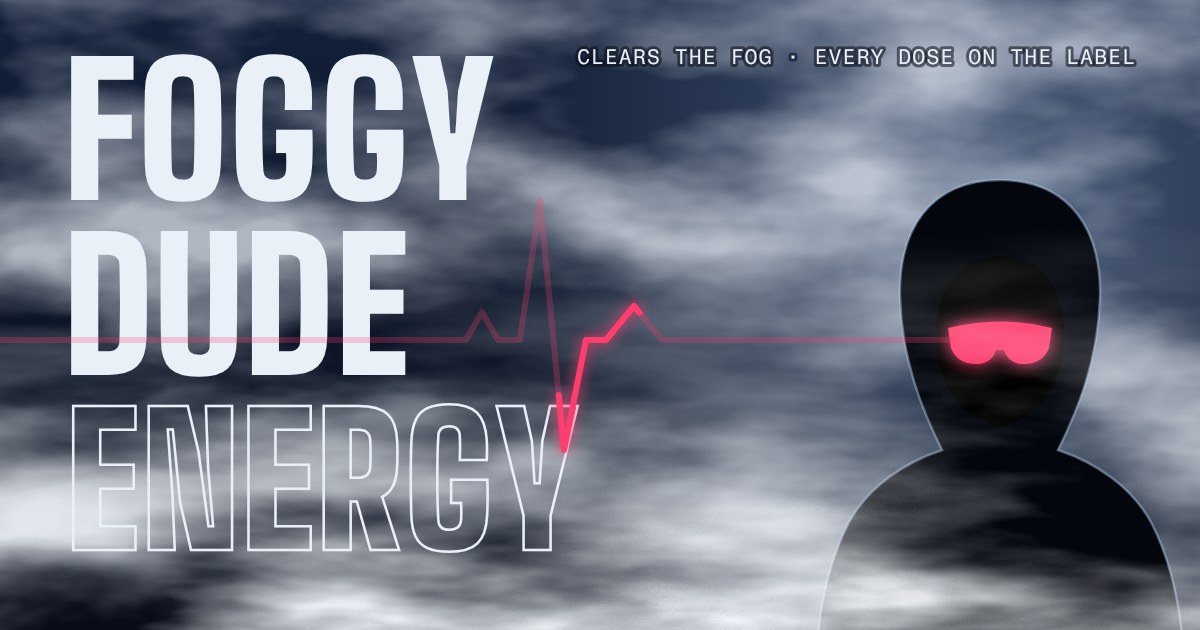
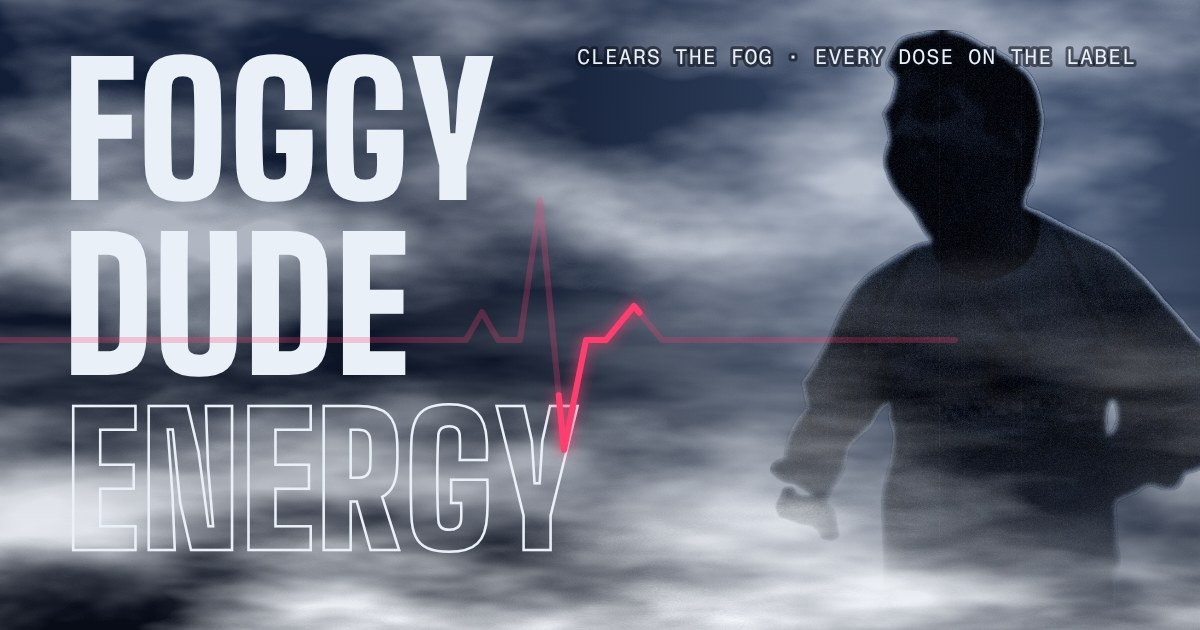
Use Samuel's photo as the Foggy Dude silhouette
Cut out from the photo and processed into a dark, grainy, backlit
silhouette that fades into the fog. Replaces the drawn hooded figure on
the page and in the link-preview image.

Claude-Session: https://claude.ai/code/session_01GXagZRprnt4TRqthb3bubq

Changed region(s): [[0.6167, 0.0302, 1.0, 1.0]]

diff --git a/index.html b/index.html
@@ -123,20 +123,12 @@ a { color: inherit; }
 /* The Foggy Dude */
 .dude {
   position: absolute; bottom: -2vh; right: max(-6vw, calc(50vw - 46rem));
-  height: min(96vh, 1000px); width: auto; aspect-ratio: 2 / 3;
+  height: min(96vh, 1000px); width: auto; aspect-ratio: 811 / 1100;
   opacity: calc(var(--dude-op) * (1 - var(--clear) * .75));
   will-change: transform;
 }
-.dude .body { fill: var(--shade); }
-.dude .rim { fill: none; stroke: var(--rim); stroke-width: 2.5; }
-.dude .face { fill: var(--void); }
-.dude .shades, .dude .shades-glow { fill: var(--pulse); transition: fill .4s; }
-.dude .shades-glow { filter: blur(9px); animation: glow var(--beat) ease-in-out infinite; }
-@keyframes glow { 0%, 100% { opacity: .55; } 12% { opacity: 1; } 30% { opacity: .7; } }
 @media (max-width: 760px) {
-  .dude { height: 64vh; right: -28vw; bottom: -10vh; }
-  .dude .shades-glow { display: none; }
-  .dude .shades { opacity: .55; }
+  .dude { height: 66vh; right: -30vw; bottom: -6vh; }
   :root { --dude-op: .22; }
 }
 @media (max-width: 760px) and (prefers-color-scheme: dark) {
@@ -215,7 +207,6 @@ footer p + p { margin-top: .6rem; }
 
 @media (prefers-reduced-motion: reduce) {
   .pulse .beat { animation: none; stroke-dasharray: none; }
-  .dude .shades-glow { animation: none; }
   .bar i, .bar .tick, body { transition: none; }
 }
 </style>
@@ -224,24 +215,7 @@ footer p + p { margin-top: .6rem; }
 <div class="scene" aria-hidden="true">
   <div class="sky"></div>
   <div class="fog f1" data-depth=".08" data-drift="7"><div></div></div>
-  <svg class="dude" viewBox="0 0 400 600">
-    <defs>
-      <linearGradient id="dudeFade" x1="0" y1="0" x2="0" y2="1">
-        <stop offset=".55" stop-color="#fff"/>
-        <stop offset="1" stop-color="#fff" stop-opacity="0"/>
-      </linearGradient>
-      <mask id="dudeMask" maskUnits="userSpaceOnUse" x="0" y="0" width="400" height="600">
-        <rect width="400" height="600" fill="url(#dudeFade)"/>
-      </mask>
-    </defs>
-    <g mask="url(#dudeMask)">
-      <path class="body" d="M200 120C130 120 98 170 100 238C102 300 122 350 142 390C106 402 68 426 48 464C26 508 18 560 16 600H384C382 560 374 508 352 464C332 426 294 402 258 390C278 350 298 300 300 238C302 170 270 120 200 120Z"/>
-      <path class="rim" d="M200 120C130 120 98 170 100 238C102 300 122 350 142 390C106 402 68 426 48 464C26 508 18 560 16 600M384 600C382 560 374 508 352 464C332 426 294 402 258 390C278 350 298 300 300 238C302 170 270 120 200 120"/>
-      <path class="face" d="M200 196C154 196 134 236 136 282C138 328 164 360 200 366C236 360 262 328 264 282C266 236 246 196 200 196Z"/>
-      <path class="shades-glow" d="M148 268Q200 255 252 268L249 288Q242 305 222 304Q208 303 204 290H196Q192 303 178 304Q158 305 151 288Z"/>
-      <path class="shades" d="M148 268Q200 255 252 268L249 288Q242 305 222 304Q208 303 204 290H196Q192 303 178 304Q158 305 151 288Z"/>
-    </g>
-  </svg>
+  <img class="dude" src="foggy-dude.webp" alt="" width="811" height="1100" decoding="async" fetchpriority="high">
   <div class="fog f2" data-depth=".22" data-drift="14"><div></div></div>
   <div class="fog f3" data-depth=".45" data-drift="26"><div></div></div>
 </div>

diff --git a/CLAUDE.md b/CLAUDE.md
@@ -11,6 +11,7 @@ Live preview (claude.ai artifact, private to Samuel): https://claude.ai/artifact
 | File | Purpose |
 |---|---|
 | `index.html` | The whole site in one file (HTML, CSS, JS inline). Google Fonts: Big Shoulders Display (wordmark, headings) + Fragment Mono (everything else). |
+| `foggy-dude.webp` | The Foggy Dude silhouette used in the fog scene |
 | `foggy-dude-energy.svg` | Animated hero image (wordmark, fog, Foggy Dude, heartbeat line) |
 | `foggy-dude-energy.jpg` | Still 1200×630 image for link previews (`og:image`), rendered from the SVG with Playwright |
 | `.nojekyll` | Makes GitHub Pages serve files as they are |
@@ -23,10 +24,11 @@ The repo is public and Pages deploys from `main` / root. Samuel asked for a publ
 
 ## Fog scene
 
-- `.scene` is a fixed layer behind `main`: sky gradient with a backlight, three fog layers (`.f1`–`.f3`), and the Foggy Dude SVG between the far and near fog.
+- `.scene` is a fixed layer behind `main`: sky gradient with a backlight, three fog layers (`.f1`–`.f3`), and the Foggy Dude (`foggy-dude.webp`, 811×1100 with transparency) between the far and near fog.
 - Fog tiles are inline SVG `feTurbulence` data URIs (1200×700, `stitchTiles`), so there are no image files to load.
-- The script at the bottom drifts the fog sideways, moves layers at different speeds on scroll (`data-depth`), nudges them with the pointer, and sets `--clear` (0 to 1 over the first screen) so the fog thins as you scroll. Hardcore mode drifts faster, and the shades glow on the `--beat`.
-- `prefers-reduced-motion` stops the drift, parallax and glow; the fog still thins on scroll.
+- The script at the bottom drifts the fog sideways, moves layers at different speeds on scroll (`data-depth`), nudges them with the pointer, and sets `--clear` (0 to 1 over the first screen) so the fog thins as you scroll. Hardcore mode drifts the fog faster.
+- `prefers-reduced-motion` stops the drift and parallax; the fog still thins on scroll.
+- `foggy-dude.webp` comes from a photo of Samuel: cut out with rembg (`u2net_human_seg`), then darkened to a navy silhouette with a faint trace of the photo, a cool backlight rim, film grain, faint scratches, and the legs fading into fog. The original photo is not in the repo.
 
 ## Task 2 (optional, ask first): restyle with his "Pulse" style
 

diff --git a/README.md b/README.md
@@ -9,6 +9,7 @@ Clears the fog. A home-mixed energy and vitamin drink, min-maxed. The page shows
 ## Files
 
 - `index.html` — the whole site in one file, including the fog background (drifting layers with scroll parallax) and the Foggy Dude figure
+- `foggy-dude.webp` — the Foggy Dude: Samuel's photo cut out and turned into a dark, grainy silhouette for the fog
 - `foggy-dude-energy.svg` — animated hero image
 - `foggy-dude-energy.jpg` — still image for link previews
 - `.nojekyll` — tells GitHub Pages to serve the files as they are
